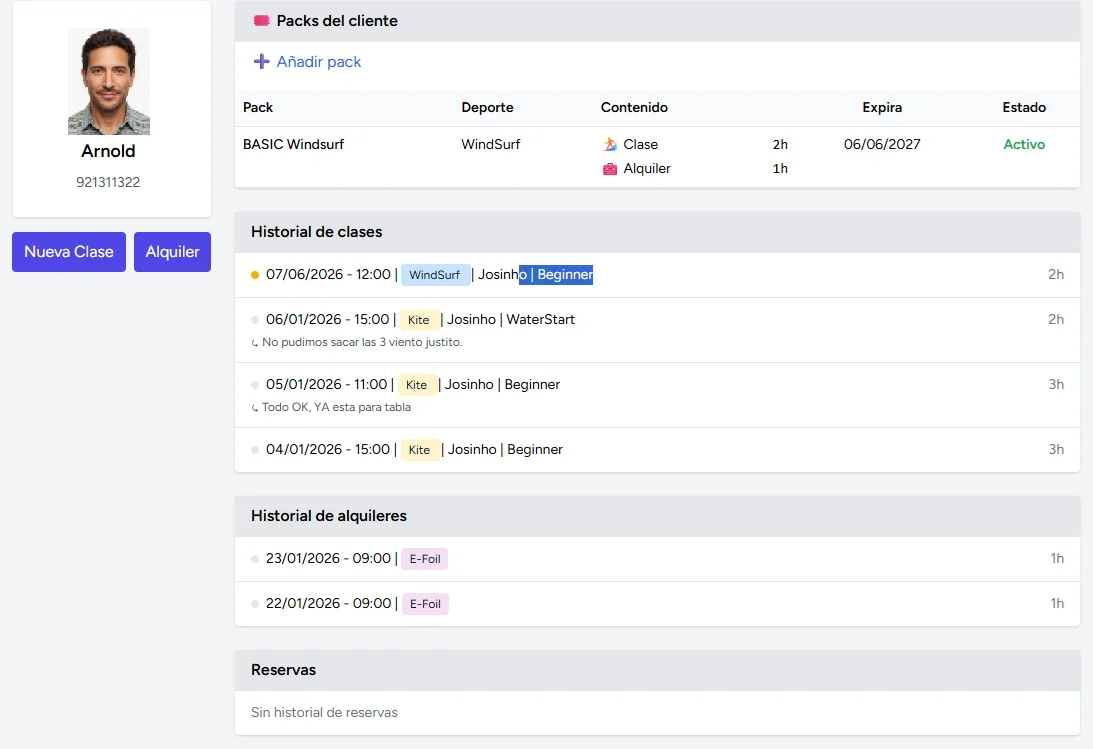
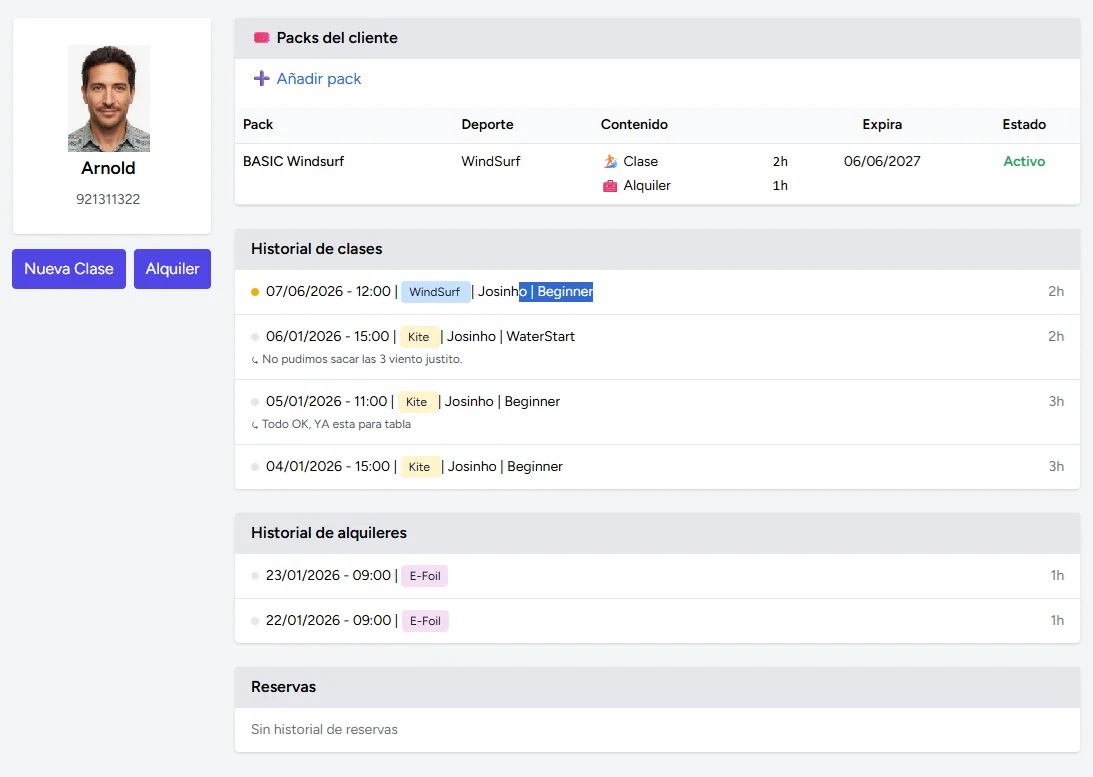
Photos Gallery updated

diff --git a/app/projects/[slug]/page.tsx b/app/projects/[slug]/page.tsx
@@ -185,29 +185,68 @@ export default async function ProjectDetailPage({
                 "
               >
                 {project.images.map((image) => (
-                  <div
-                   key={image}
-                   className="
-                   overflow-hidden
-                   rounded-xl
-                   border
-                   border-slate-800
-                   "
-                  >
-                    <Image
-                    src={image}
-                    alt={project.title}
-                    width={1200}
-                    height={800}
-                    className="
-                    w-full
-                    hover:scale-[1.02]
-                    transition
-                    "
-                    />
-                    </div>
-                    )
-                  )}
+
+  <figure
+    key={image}
+
+    className="
+      rounded-2xl
+
+      overflow-hidden
+
+      border
+
+      border-slate-800
+
+      bg-slate-900
+    "
+  >
+
+    <Image
+      src={image}
+
+      alt={`${project.title} screenshot`}
+
+      width={1400}
+
+      height={900}
+
+      loading="lazy"
+
+      className="
+        w-full
+
+        transition
+
+        hover:scale-[1.01]
+      "
+    />
+
+    <figcaption
+      className="
+        px-5
+        py-4
+
+        text-sm
+
+        text-slate-400
+      "
+    >
+
+      {
+        image
+          .split("/")
+          .pop()
+          ?.replace(".webp","")
+          .replace("-"," ")
+      }
+
+    </figcaption>
+
+  </figure>
+
+))}
+
                   </div>
                   </section>
                   )}

diff --git a/data/projects.ts b/data/projects.ts
@@ -24,7 +24,7 @@ export const projects: Project[] = [
       "Calendar management",
     ],
     architecture: "Laravel monolithic application organised by business modules",
-    status: "Paused — planned continuation",
+    status: "Prototype completed — further development planned",
     images: [ 
       //"/images/projects/waterman/idea_form.webp",
       "/images/projects/waterman/calendar.webp",
